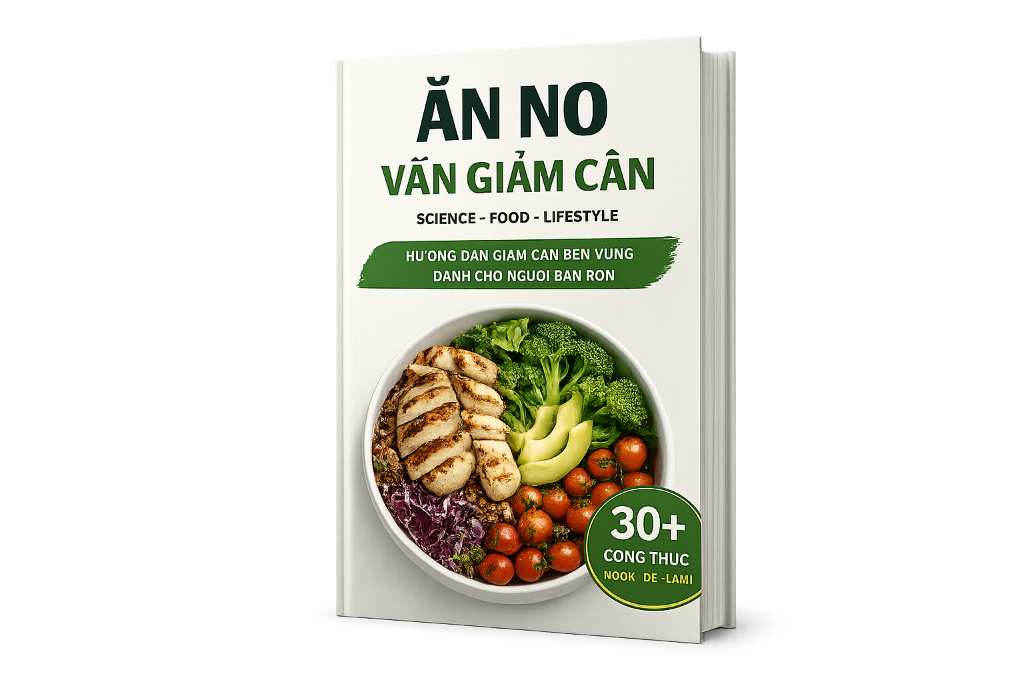
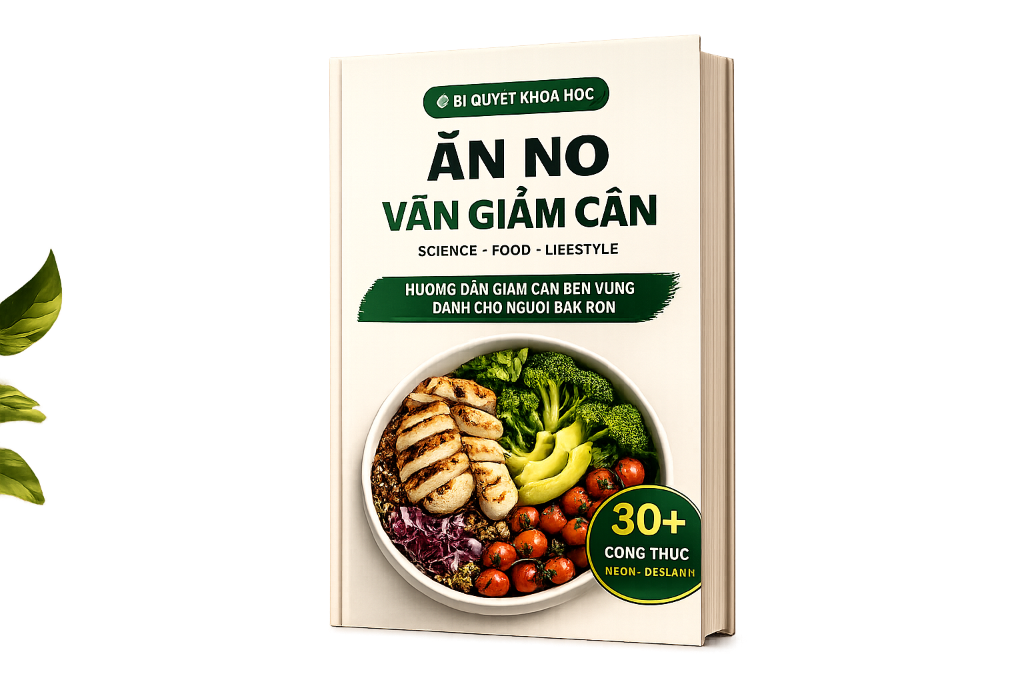
Update hero book cover sizing and replace with the latest cover image assets

diff --git a/style.css b/style.css
@@ -294,18 +294,18 @@ nav {
 }
 
 .hero-book-img {
-    width: 310px;
+    width: 460px;
     height: auto;
-    border-radius: 6px 16px 16px 6px;
-    filter: drop-shadow(15px 15px 30px rgba(13, 30, 26, 0.15));
-    transform: rotateY(-16deg) rotateX(4deg) rotateZ(1deg);
-    transform-style: preserve-3d;
+    max-width: 140%;
+    margin: -30px -50px;
     transition: var(--transition);
+    transform: rotate(1.5deg);
+    filter: drop-shadow(0 10px 25px rgba(13, 30, 26, 0.05));
 }
 
 .hero-cover-container:hover .hero-book-img {
-    transform: rotateY(-6deg) rotateX(2deg) rotateZ(0deg) scale(1.05);
-    filter: drop-shadow(25px 25px 40px rgba(13, 30, 26, 0.22));
+    transform: scale(1.04) rotate(-0.5deg);
+    filter: drop-shadow(0 15px 35px rgba(13, 30, 26, 0.08));
 }
 
 /* Payment Status Box */